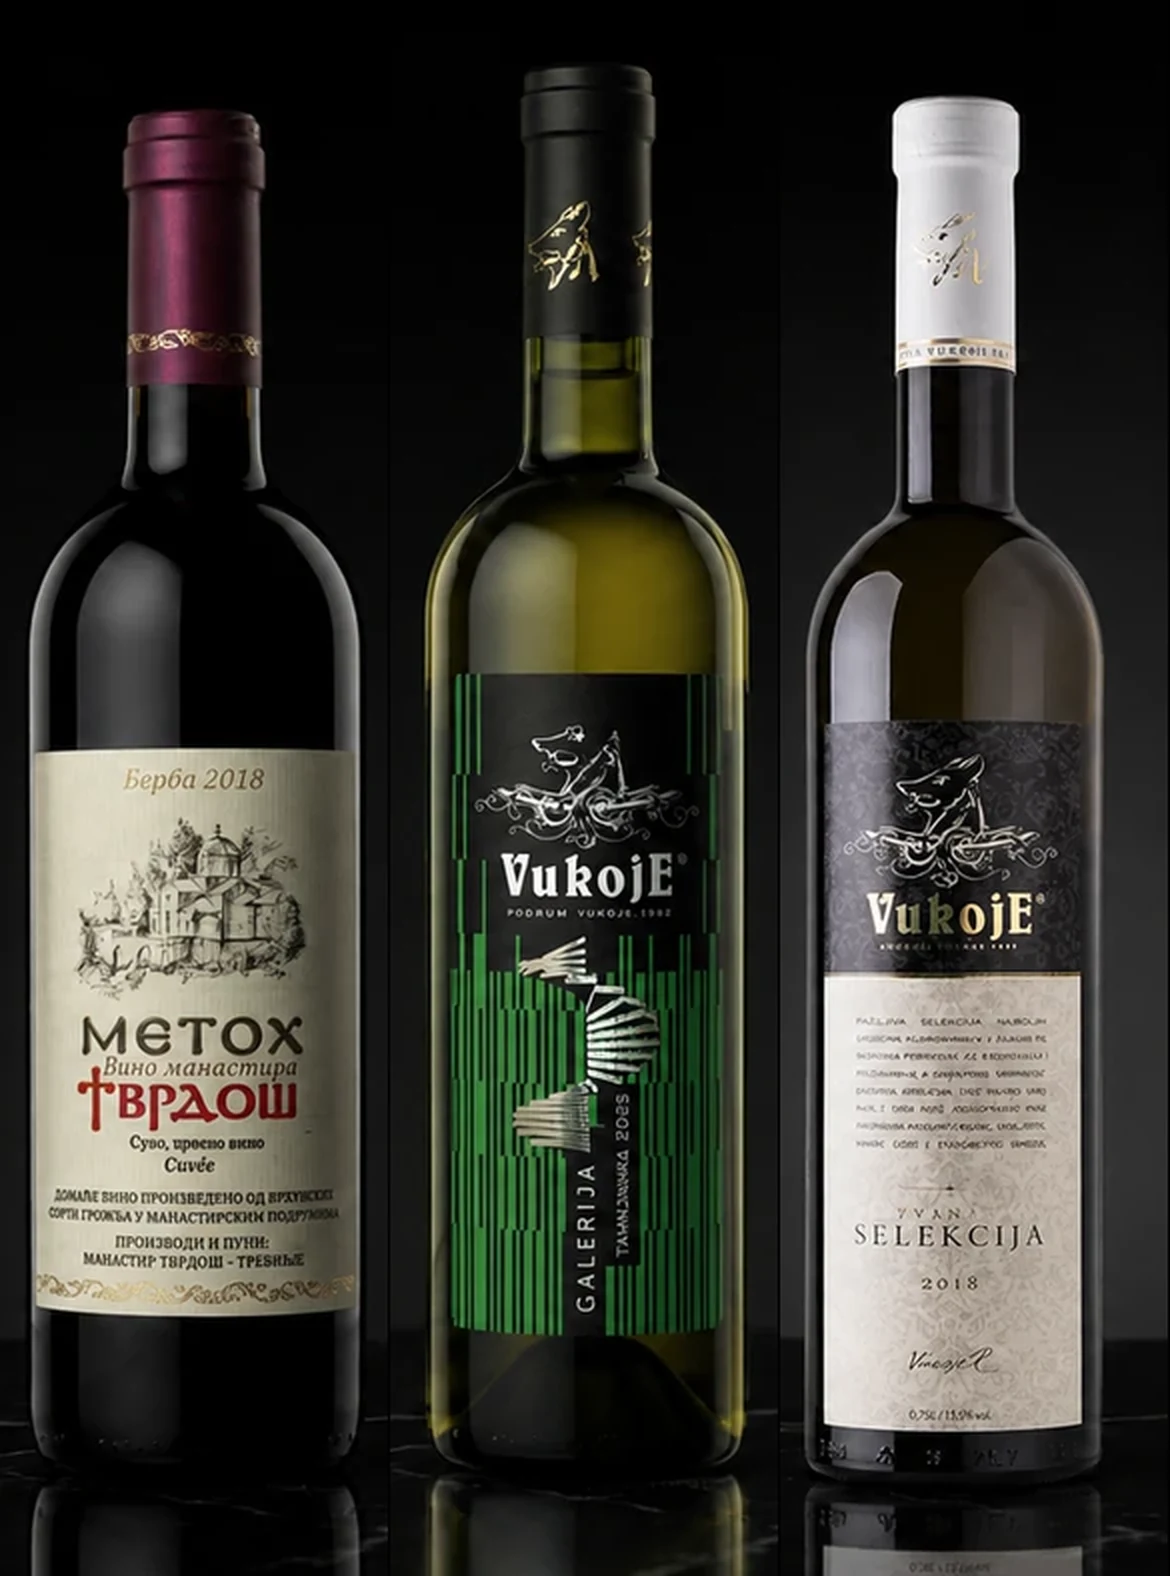
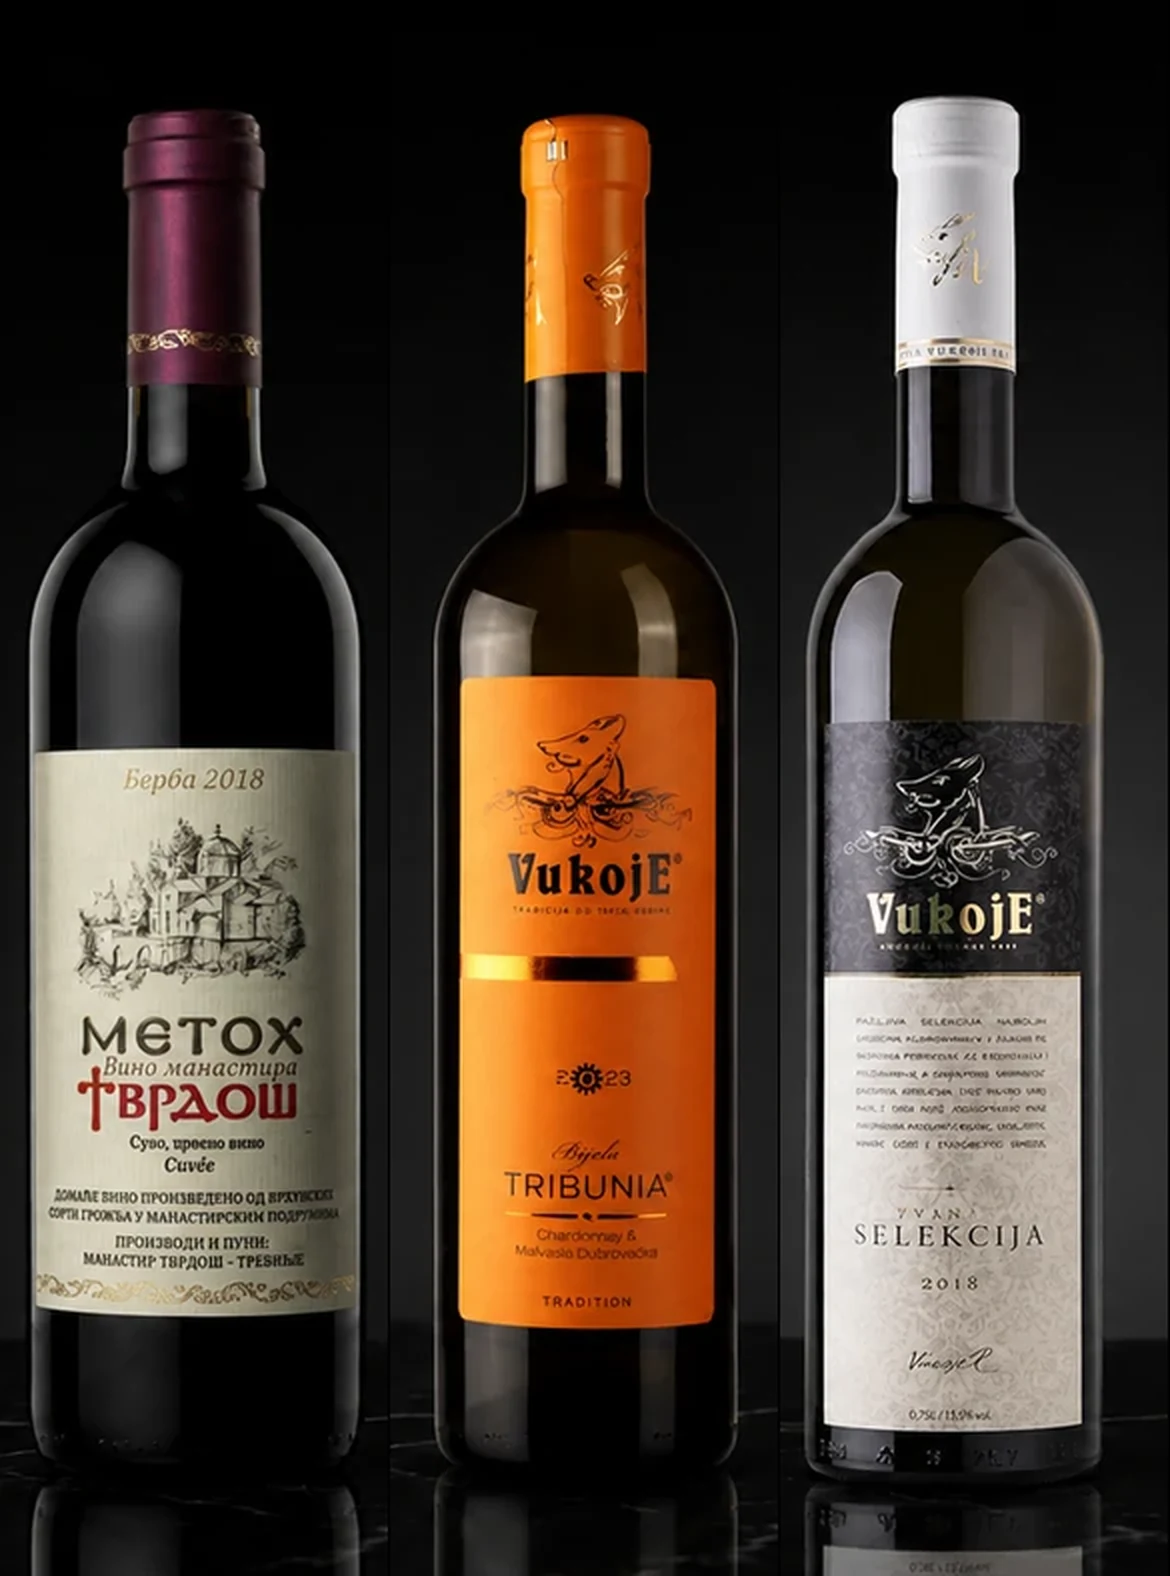
Swap Tribunia into the Premium Trio, and open the English page with euros
The Premium Trio trades the Tamjanika for the Tribunia and reprices to 7670,
the sum of its three bottles. Its photograph is recomposed from the bottles
it now contains.

The English translation was already written into every element and the
switch was already wired — the button was simply hidden. It is visible now,
Serbian stays the default on a first visit, and an explicit switch is
remembered.

Prices follow the language. Dinars are what the shop sets, charges and
records, so the order that reaches the inbox is in dinars whichever page it
came from; the euro figure is a conversion for a visitor who would otherwise
have no sense of what a bottle costs, written with a ≈ so it never reads as a
second exact price. In the cart and the reservation summary, where someone is
committing to an amount, the dinar sum is spelled out underneath as the money
actually collected at the door.

The rate is one constant at the top of the file. It needs checking against
the NBS middle rate before this goes in front of anyone.

Claude-Session: https://claude.ai/code/session_011vQZniodVgQxCMJtNf3cEn

Changed region(s): [[0.3385, 0.0311, 0.6462, 1.0], [0.4308, 0.9638, 0.4923, 1.0]]

diff --git a/script.js b/script.js
@@ -273,15 +273,15 @@ const BUNDLES = [
     id: 'bundle-premium-trio',
     name: { sr: 'Hercz Premium Trio', en: 'Hercz Premium Trio' },
     subtitle: {
-      sr: 'Metoh Vranac + Tamjanika Galerija + Zlatna Selekcija',
-      en: 'Metoh Vranac + Tamjanika Galerija + Zlatna Selekcija'
+      sr: 'Metoh Vranac + Tribunia bijelo + Zlatna Selekcija',
+      en: 'Metoh Vranac + Tribunia bijelo + Zlatna Selekcija'
     },
     desc: {
-      sr: 'Isti provereni par, sa Zlatnom Selekcijom kao krunom. Paket za poklon ili za veče koje treba da se pamti.',
-      en: 'The same proven pair, crowned with the Zlatna Selekcija. A bundle for a gift, or for an evening meant to be remembered.'
+      sr: 'Manastirsko crveno, elegantna Tribunia i Zlatna Selekcija kao kruna. Paket za poklon ili za veče koje treba da se pamti.',
+      en: 'A monastery red, the elegant Tribunia and the Zlatna Selekcija to crown it. A bundle for a gift, or for an evening meant to be remembered.'
     },
-    wines: ['tvrdos-metoh-vranac', 'tamjanika-galerija', 'zlatna-selekcija-bijelo'],
-    price: 7370,
+    wines: ['tvrdos-metoh-vranac', 'tribunija-bijelo', 'zlatna-selekcija-bijelo'],
+    price: 7670,
     img: 'images/paket-premium-trio.webp'
   }
 ];
@@ -315,6 +315,27 @@ const BUNDLES = [
 const RECIPIENT_EMAIL = 'herczwines@gmail.com';
 const FORMSUBMIT_ENDPOINT = 'https://formsubmit.co/ajax/herczwines@gmail.com';
 let currentLang = 'sr';
+
+// Prices are set, charged and recorded in dinars — the order that reaches the
+// inbox is always in RSD, whichever page the buyer was reading. The euro
+// figure exists so a visitor on the English page knows roughly what a bottle
+// costs, and it is written with a ≈ so it never reads as a second, exact
+// price. Where it matters — the cart and the reservation summary — the dinar
+// amount is spelled out beside it as the sum actually collected at the door.
+// PROVERITI: srednji kurs NBS. Jedini broj koji treba menjati kad kurs pomeri.
+const RSD_PER_EUR = 117.5;
+
+function fmtPrice(rsd) {
+  if (currentLang === 'sr') return rsd + ' RSD';
+  return '≈ €' + (rsd / RSD_PER_EUR).toFixed(2);
+}
+
+// The dinar sum, for the two places the buyer is committing to an amount.
+// Empty in Serbian, where the price on screen is already that sum.
+function chargedNote(rsd) {
+  if (currentLang === 'sr') return '';
+  return 'Charged in dinars: ' + rsd + ' RSD';
+}
 
 // Four corners pushing outward: the panel it opens is the card at full size.
 const MORE_ICON =
@@ -510,7 +531,7 @@ function renderWines() {
         <p class="wine-desc">${wine.desc[currentLang]}</p>
         <div class="wine-tag-group">${tagChip(wine, currentLang)}${tag2Chip(wine, currentLang)}</div>
         <div class="wine-footer">
-          <div class="wine-price-row"><span class="wine-price">${wine.price} RSD</span><span class="wine-volume">${wine.volume}</span></div>
+          <div class="wine-price-row"><span class="wine-price">${fmtPrice(wine.price)}</span><span class="wine-volume">${wine.volume}</span></div>
           <button type="button" class="wine-add" data-id="${wine.id}" aria-label="${addLabel}" title="${addLabel}">${CART_ICON}</button>
         </div>
       </div>
@@ -568,7 +589,7 @@ function renderBundles() {
     // be claiming a discount that is not there.
     const hasSaving = bundle.saving > 0;
     const originalPrice = hasSaving
-      ? '<span class="bundle-original">' + bundle.originalPrice + ' RSD</span>'
+      ? '<span class="bundle-original">' + fmtPrice(bundle.originalPrice) + '</span>'
       : '';
     const featured = bundle.featured ? ' bundle-card--featured' : '';
     // The ribbon is the bundle's own label rather than a fixed one for the
@@ -610,7 +631,7 @@ function renderBundles() {
           '<div class="wine-footer">',
             '<div class="bundle-pricing">',
               originalPrice,
-              '<span class="wine-price">' + bundle.price + ' RSD</span>',
+              '<span class="wine-price">' + fmtPrice(bundle.price) + '</span>',
             '</div>',
             '<button type="button" class="wine-add bundle-add" data-bundle-id="' + bundle.id + '"'
               + ' aria-label="' + btnLabel + '" title="' + btnLabel + '">' + CART_ICON + '</button>',
@@ -754,7 +775,7 @@ function renderCart() {
         <div class="cart-item-info">
           <h4>${source.name[currentLang]} ${label}</h4>
           ${note}
-          <div class="cart-item-price">${price * item.qty} RSD</div>
+          <div class="cart-item-price">${fmtPrice(price * item.qty)}</div>
           <div class="cart-item-controls">
             <button type="button" class="qty-btn" onclick="updateQty('${item.id}', -1)">−</button>
             <span class="qty-val">${item.qty}</span>
@@ -765,7 +786,9 @@ function renderCart() {
       </div>
     `;
   }).join('');
-  document.getElementById('cartTotal').textContent = getCartTotal() + ' RSD';
+  document.getElementById('cartTotal').textContent = fmtPrice(getCartTotal());
+  const chargeEl = document.getElementById('cartChargeNote');
+  if (chargeEl) chargeEl.textContent = chargedNote(getCartTotal());
   renderShippingLine(getCartTotal());
   footerEl.style.display = 'block';
 }
@@ -784,7 +807,7 @@ function renderShippingLine(total) {
     el.className = 'cart-ship cart-ship--short';
     el.innerHTML = SHIP_ICON + '<span>' + (isSr
       ? 'Još ' + short + ' RSD do besplatne dostave'
-      : short + ' RSD more for free delivery') + '</span>';
+      : fmtPrice(short) + ' more for free delivery') + '</span>';
   } else {
     el.className = 'cart-ship cart-ship--free';
     el.innerHTML = SHIP_ICON + '<span>' + (isSr
@@ -814,9 +837,10 @@ function populateSummary() {
       const label = item.isBundle
         ? `${BUNDLES.find(b => b.id === item.id).name[currentLang]} (${currentLang === 'sr' ? 'paket' : 'bundle'})`
         : `${wine.name[currentLang]} ${wine.volume}`;
-      return `<div class="checkout-summary-item"><span>${label} × ${item.qty}</span><span>${price * item.qty} RSD</span></div>`;
+      return `<div class="checkout-summary-item"><span>${label} × ${item.qty}</span><span>${fmtPrice(price * item.qty)}</span></div>`;
     }).join('')}
-    <div class="checkout-summary-total"><span>${currentLang === 'sr' ? 'Ukupno' : 'Total'}</span><span>${getCartTotal()} RSD</span></div>
+    <div class="checkout-summary-total"><span>${currentLang === 'sr' ? 'Ukupno' : 'Total'}</span><span>${fmtPrice(getCartTotal())}</span></div>
+    <div class="checkout-charge-note">${chargedNote(getCartTotal())}</div>
   `;
 }
 
@@ -908,7 +932,7 @@ function openDetail(id) {
   document.getElementById('detailName').textContent = item.name[currentLang];
   document.getElementById('detailSub').textContent = item.subtitle[currentLang];
   document.getElementById('detailDesc').textContent = item.desc[currentLang];
-  document.getElementById('detailPrice').textContent = item.price + ' RSD';
+  document.getElementById('detailPrice').textContent = fmtPrice(item.price);
   // Only wines carry a quickTag; bundles show no chip here.
   document.getElementById('detailTag').innerHTML = wine ? tagChip(wine, currentLang) + tag2Chip(wine, currentLang) : '';
 
@@ -1216,6 +1240,14 @@ document.addEventListener('DOMContentLoaded', () => {
   document.getElementById('langToggle').addEventListener('click', () => {
     switchLanguage(currentLang === 'sr' ? 'en' : 'sr');
   });
+
+  // Serbian is the default and stays it; only an explicit switch is remembered,
+  // so a first visit always opens in Serbian whatever the browser is set to.
+  try {
+    if (localStorage.getItem('hercegLang') === 'en') switchLanguage('en');
+  } catch (err) {
+    // Storage unavailable — the page stays in Serbian, which is the default.
+  }
 
   document.getElementById('cartBtn').addEventListener('click', () => {
     setCartOpen(true);

diff --git a/index.html b/index.html
@@ -36,7 +36,7 @@
     <link rel="stylesheet"
       href="https://fonts.googleapis.com/css2?family=Cinzel:wght@400;600;700;900&family=Cormorant+Garamond:ital,wght@0,300;0,400;0,500;0,600;0,700;1,400;1,500;1,600&family=Lato:wght@300;400;700&display=swap">
   </noscript>
-  <link rel="stylesheet" href="styles.css?v=128">
+  <link rel="stylesheet" href="styles.css?v=129">
 
   <!-- Microsoft Clarity: session recordings and click heatmaps, project "Hercz Wines". -->
   <script type="text/javascript">
@@ -62,7 +62,7 @@
         <li><a href="#contact" data-sr="Kontakt" data-en="Contact">Kontakt</a></li>
       </ul>
       <div class="nav-actions">
-        <button type="button" class="lang-toggle" id="langToggle" style="display:none;">
+        <button type="button" class="lang-toggle" id="langToggle" aria-label="Jezik / Language">
           <span class="lang-active">SR</span> / <span>EN</span>
         </button>
         <button type="button" class="cart-btn" id="cartBtn" aria-label="Cart">
@@ -212,7 +212,7 @@
                  three similar-sounding promises. -->
             <li>
               <svg width="15" height="15" viewBox="0 0 24 24" fill="none" stroke="currentColor" stroke-width="1.6" stroke-linecap="round" stroke-linejoin="round" aria-hidden="true"><path d="M8.25 18.75a1.5 1.5 0 01-3 0m3 0a1.5 1.5 0 00-3 0m3 0h6m-9 0H3.375a1.125 1.125 0 01-1.125-1.125V14.25m17.25 4.5a1.5 1.5 0 01-3 0m3 0a1.5 1.5 0 00-3 0m3 0h1.125c.621 0 1.129-.504 1.09-1.124a17.902 17.902 0 00-3.213-9.193 2.056 2.056 0 00-1.58-.86H14.25M16.5 18.75h-2.25m0-11.177v-.958c0-.568-.422-1.048-.987-1.106a48.554 48.554 0 00-10.026 0 1.106 1.106 0 00-.987 1.106v7.635m12-6.677v6.677m0 4.5v-4.5m0 0h-12"/></svg>
-              <span data-sr="Besplatna dostava preko 4.000 RSD" data-en="Free delivery over 4,000 RSD">Besplatna dostava preko 4.000 RSD</span>
+              <span data-sr="Besplatna dostava preko 4.000 RSD" data-en="Free delivery over 4,000 RSD (≈ €34)">Besplatna dostava preko 4.000 RSD</span>
             </li>
             <li>
               <svg width="15" height="15" viewBox="0 0 24 24" fill="none" stroke="currentColor" stroke-width="1.7" stroke-linecap="round" stroke-linejoin="round" aria-hidden="true"><path d="M9 12l2 2 4-4"/><circle cx="12" cy="12" r="9"/></svg>
@@ -278,7 +278,7 @@
             <svg viewBox="0 0 24 24" width="48" height="48" fill="none" stroke="#c8a96a" stroke-width="1.5" stroke-linecap="round" stroke-linejoin="round"><path d="M8.25 18.75a1.5 1.5 0 01-3 0m3 0a1.5 1.5 0 00-3 0m3 0h6m-9 0H3.375a1.125 1.125 0 01-1.125-1.125V14.25m17.25 4.5a1.5 1.5 0 01-3 0m3 0a1.5 1.5 0 00-3 0m3 0h1.125c.621 0 1.129-.504 1.09-1.124a17.902 17.902 0 00-3.213-9.193 2.056 2.056 0 00-1.58-.86H14.25M16.5 18.75h-2.25m0-11.177v-.958c0-.568-.422-1.048-.987-1.106a48.554 48.554 0 00-10.026 0 1.106 1.106 0 00-.987 1.106v7.635m12-6.677v6.677m0 4.5v-4.5m0 0h-12"/></svg>
           </div>
           <h3 data-sr="Dostava na adresu" data-en="Home delivery">Dostava na adresu</h3>
-          <p data-sr="Naručite online, mi dostavimo širom Srbije. Besplatno za porudžbine preko 4.000 RSD. Brzo, sigurno, pažljivo upakovano." data-en="Order online, we deliver across Serbia. Free on orders over 4,000 RSD. Fast, safe, carefully packed.">Naručite online, mi dostavimo širom Srbije. Besplatno za porudžbine preko 4.000 RSD. Brzo, sigurno, pažljivo upakovano.</p>
+          <p data-sr="Naručite online, mi dostavimo širom Srbije. Besplatno za porudžbine preko 4.000 RSD. Brzo, sigurno, pažljivo upakovano." data-en="Order online, we deliver across Serbia. Free on orders over 4,000 RSD (≈ €34). Fast, safe, carefully packed. Payment is in dinars, on delivery.">Naručite online, mi dostavimo širom Srbije. Besplatno za porudžbine preko 4.000 RSD. Brzo, sigurno, pažljivo upakovano.</p>
           <div class="visit-price" data-sr="2-4 dana" data-en="2-4 days">2-4 dana</div>
         </div>
         <div class="visit-card">
@@ -397,6 +397,9 @@
         <span data-sr="Ukupno:" data-en="Total:">Ukupno:</span>
         <span id="cartTotal">0 RSD</span>
       </div>
+      <!-- Filled only on the English page, where the total above is shown in
+           euros: this is the dinar sum the courier actually collects. -->
+      <div class="cart-charge-note" id="cartChargeNote"></div>
       <button type="button" class="btn btn-primary btn-full" id="checkoutBtn" data-sr="Nastavi na rezervaciju" data-en="Make a Reservation">Nastavi na rezervaciju</button>
     </div>
   </aside>
@@ -550,6 +553,6 @@
   }
   </script>
 
-  <script src="script.js?v=110"></script>
+  <script src="script.js?v=111"></script>
 </body>
 </html>

diff --git a/styles.css b/styles.css
@@ -1954,6 +1954,24 @@ button {
   margin-bottom: 16px;
 }
 
+/* The dinar sum behind the euro total, on the English page only. Empty in
+   Serbian, where it would repeat the line above it — so it carries its own
+   margin rather than taking one from the total, which would otherwise leave
+   a gap on a page that has nothing to say here. */
+.cart-charge-note:not(:empty),
+.checkout-charge-note:not(:empty) {
+  font-family: 'Lato', sans-serif;
+  font-size: 0.72rem;
+  letter-spacing: 0.3px;
+  color: var(--text-light);
+  margin: -8px 0 14px;
+}
+
+.checkout-charge-note:not(:empty) {
+  margin: 8px 0 0;
+  text-align: right;
+}
+
 /* ===== CHECKOUT MODAL ===== */
 .checkout-overlay {
   position: fixed;
